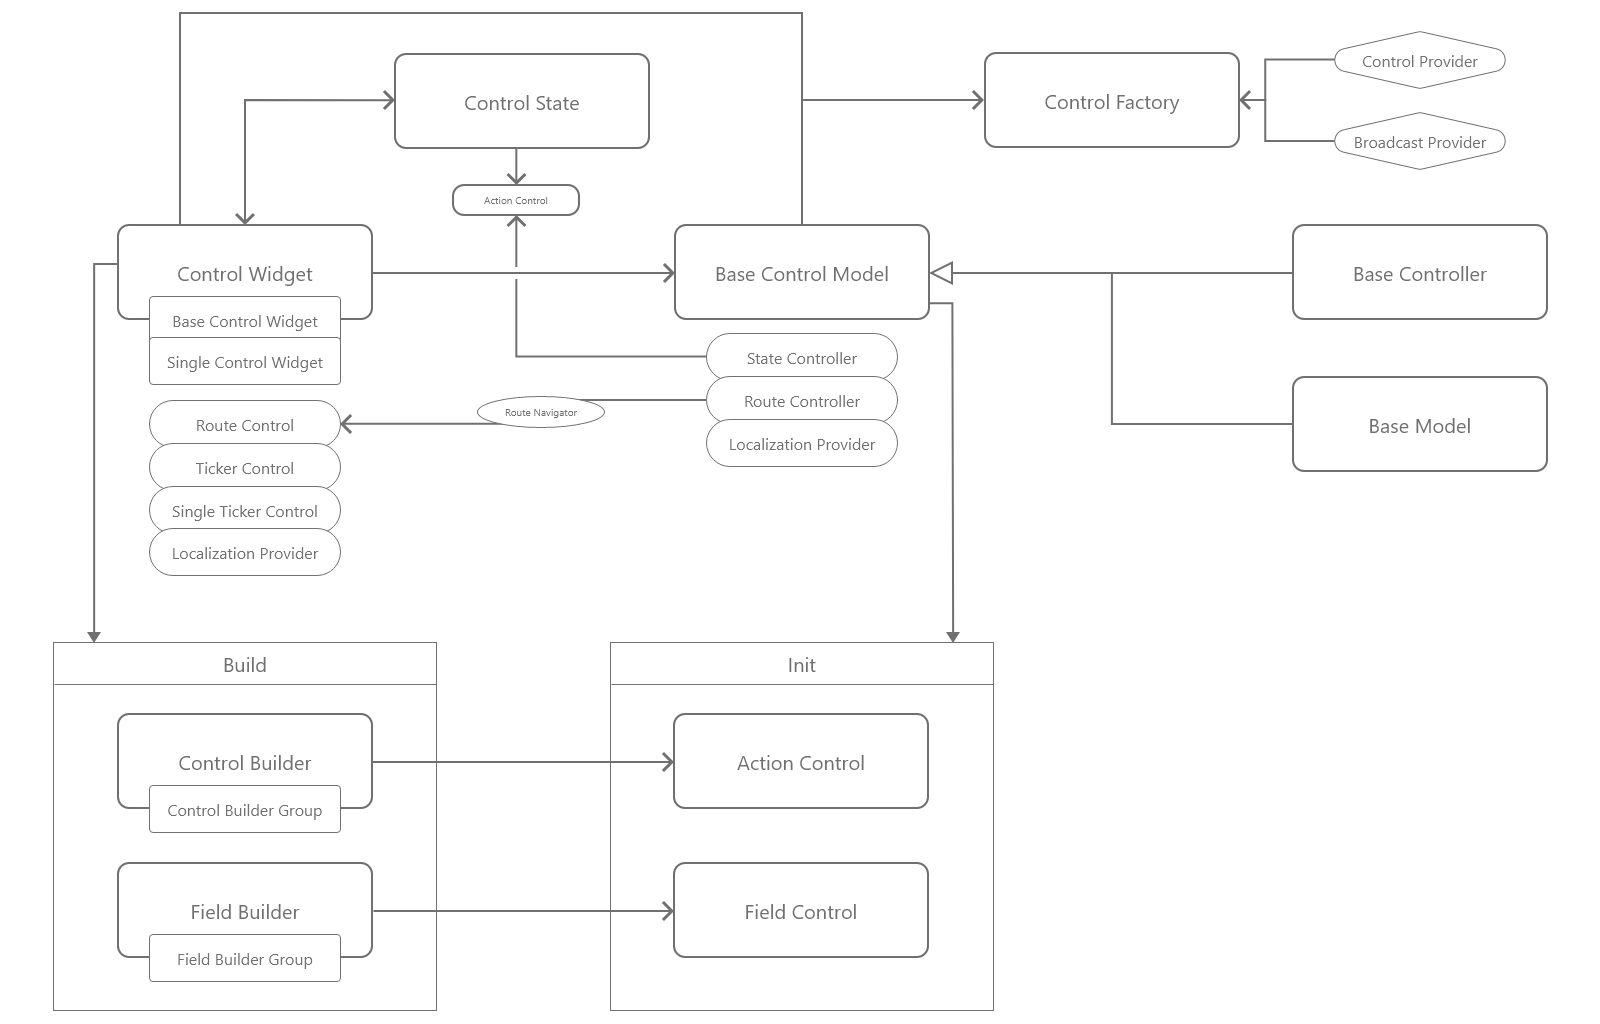
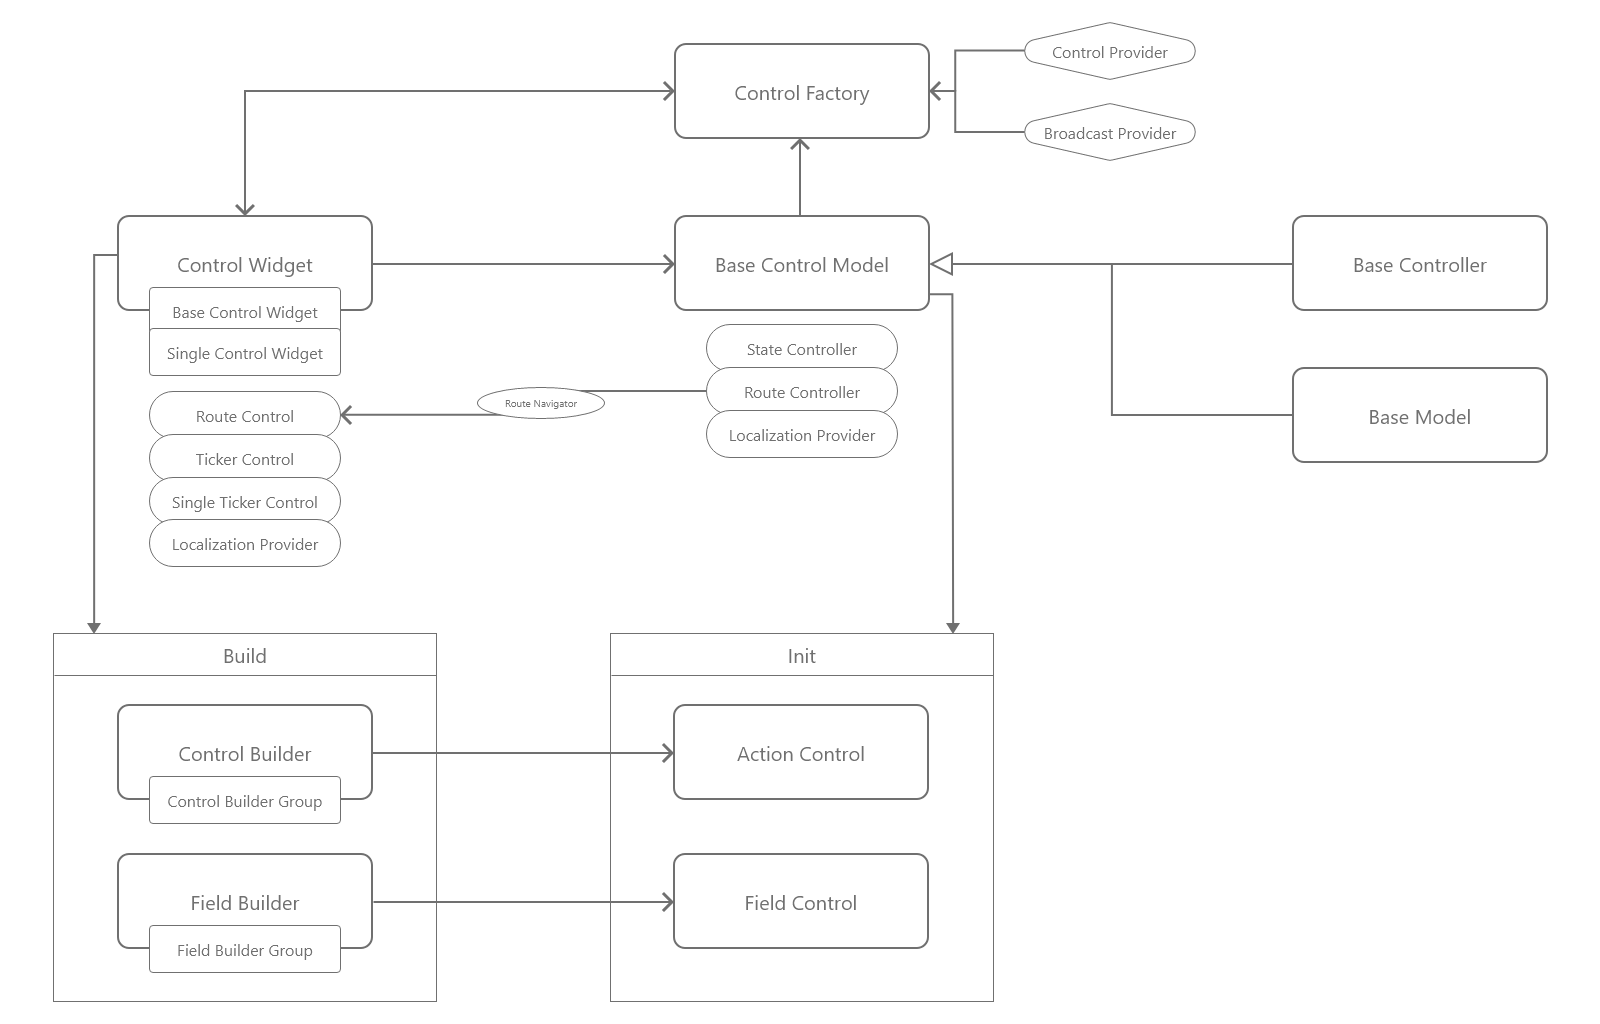
doc

diff --git a/lib/src/app_base.dart b/lib/src/app_base.dart
@@ -52,7 +52,7 @@ class BaseAppState extends State<BaseApp> implements StateNotifier {
   /// Is passed into AppControl.
   final contextHolder = ContextHolder();
 
-  String defaultLocale;
+  String locale;
   WidgetInitializer _rootBuilder;
 
   bool _loading = true;
@@ -62,7 +62,7 @@ class BaseAppState extends State<BaseApp> implements StateNotifier {
     setState(() {
       final localization = ControlProvider.of<BaseLocalization>(ControlKey.localization);
       if (localization != null) {
-        defaultLocale = localization.locale;
+        locale = localization.locale;
       }
     });
   }
@@ -123,7 +123,7 @@ class BaseAppState extends State<BaseApp> implements StateNotifier {
     final localization = ControlProvider.of<BaseLocalization>(ControlKey.localization);
     localization.debug = widget.debug ?? debugMode;
 
-    defaultLocale = localization.defaultLocale;
+    locale = localization.defaultLocale;
 
     contextHolder.once((context) async {
       if (widget.loadLocalization) {
@@ -136,7 +136,7 @@ class BaseAppState extends State<BaseApp> implements StateNotifier {
 
       setState(() {
         _loading = false;
-        defaultLocale = localization.locale;
+        locale = localization.locale;
       });
     });
   }
@@ -146,7 +146,7 @@ class BaseAppState extends State<BaseApp> implements StateNotifier {
     return AppControl(
       rootKey: rootKey,
       contextHolder: contextHolder,
-      locale: defaultLocale,
+      locale: locale,
       rootState: this,
       child: MaterialApp(
         key: rootKey,

diff --git a/lib/src/widget/input_field.dart b/lib/src/widget/input_field.dart
@@ -19,7 +19,7 @@ class FocusController extends FocusNode {
 
 /// Controller of [InputField].
 /// Can chain multiple Controllers for submissions.
-class InputController extends BaseController with StateController {
+class InputController extends BaseControlModel with StateController {
   @override
   bool get preferSoftDispose => true;
 
@@ -439,7 +439,7 @@ class InputField extends ControlWidget {
   }) : super(key: key);
 
   @override
-  List<BaseController> initControllers() {
+  List<BaseControlModel> initControllers() {
     controller._obscure = obscureText;
 
     return [controller];

diff --git a/CHANGELOG.md b/CHANGELOG.md
@@ -1,3 +1,4 @@
+## [0.10.2] - Mixins
 ## [0.9.3] - RouteControl, NavigatorStack
 ## [0.9.1] - Dependency update
 ## [0.8.98] - Control Group Builders
@@ -6,85 +7,6 @@
 
 ---
 
-**Base classes**
+**Full Structure**
 
-- [BaseApp] Wraps MaterialApp and initializes Control and Factory. It's just shortcut to start with Flutter Control.
-- [AppControl] Is [InheritedWidget] around whole App. Holds Factory and other important Controllers.
-- [ControlFactory] Mainly initializes and stores Controllers, Models and other Logic classes. Also works as global Stream to provide communication and synchronization between separated parts of App.
-- [BaseLocalization] Json based localization, that supports simple strings, plurals and dynamic structures.
-- [RouteHandler] Initializes Widget and handles Navigation.
-
----
-
-**Streams**
-
-- [ActionControl] Single or Broadcast Observable. Usable with [ControlBuilder] to dynamically build Widgets.
-- [FieldControl] Stream wrapper to use with [FieldStreamBuilder] or [FieldBuilder] to dynamically build Widgets.
-- [ListControl] Extended FieldControl to work with [List]
-- [RxControl] under construction..
-
----
-
-**Controllers**
-
-- [BaseController] Stores all Business Logic and initializes self during Widget construction. Have native access to Factory and Control.
-- [StateController] Adds functionality to notify State of [ControlWidget].
-- [BaseModel] Lightweight version of Controller. Mainly used for Items in dynamic List or to separate/reuse Logic.
-- [InputController] Controller for [InputField] to control text, changes, validity, focus, etc. Controllers can be chained via 'next' and 'done' events.
-- [NavigatorController] Controller for [NavigatorStack.single] to control navigation inside Widget.
-- [NavigatorStackController] Controller for [NavigatorStack.pages] or [NavigatorStack.menu] to control navigation between Widgets.
-
----
-
-**Widgets**
-
-- [ControlWidget] Base Widget to work with Controllers. Have native access to Factory and Control. 
-- [BaseControlWidget] Widget with no init Controllers, but still have access to Factory etc. so Controllers can be get from there.
-- [SingleControlWidget] Widget with just one generic Controller.
-
-- [InputField] Wrapped [TextField] to provide more functionality and control via [InputController].
-- [FieldBuilder] Dynamic Widget builder controlled by [FieldControl].
-- [FieldBuilderGroup] Dynamic Widget builder controlled by multiple [FieldControl]s. 
-- [ListBuilder] Wrapper of [FieldBuilder] to easily work with Lists.
-- [ControlBuilder] Dynamic Widget builder controlled by [ActionControl].
-- [StableWidget] Widget that is build just once.
-
-- [NavigatorStack.single] Enables navigation inside Widget.
-- [NavigatorStack.pages] Enables navigation between Widgets. Usable for menus, tabs, etc.
-- [NavigatorStack.menu] Same as 'pages', but Widgets are generated from [MenuItem] data.
-
----
-
-**Providers**
-
-- [ControlProvider] Provides and initializes objects from [ControlFactory].
-- [BroadcastProvider] Globally broadcast events and data.
-- [PageRouteProvider] Specifies Route and WidgetBuilder settings for [RouteHandler].
-
----
-
-**Mixins**
-
-- [LocalizationProvider] - mixin for any class, enables [BaseLocalization] for given object.
-- [RouteControl] - mixin for [ControlWidget], enables route navigation.
-- [RouteController] - mixin for [BaseController], enables route navigation bridge to [ControlWidget] with [RouteControl]. 
-- [TickerControl] - mixin for [ControlWidget], enables Ticker for given Widget.
-
-- [DisposeHandler] - mixin for any class, helps with object disposing.
-- [PrefsProvider] - mixin for any class, helps to store user preferences.
-
----
-
-**Helpers**
-
-- [FutureBlock] Retriggerable delay.
-- [DelayBlock] Delay to wrap a block of code to prevent 'super fast' completion and UI jiggles.
-- [Parse] Helps to parse json primitives and Iterables. Provides default values if parsing fails.
-- [ArgProvider] Helps to retrieve object form List or Map.
-- [Device] Wrapper over [MediaQuery].
-- [WidgetInitializer] Helps to initialize Widgets with init data.
-- [BaseTheme] Some basic values to work with during Widget composition.
-
-- and more..
-
----
+![Structure](/docs/structure.png)
